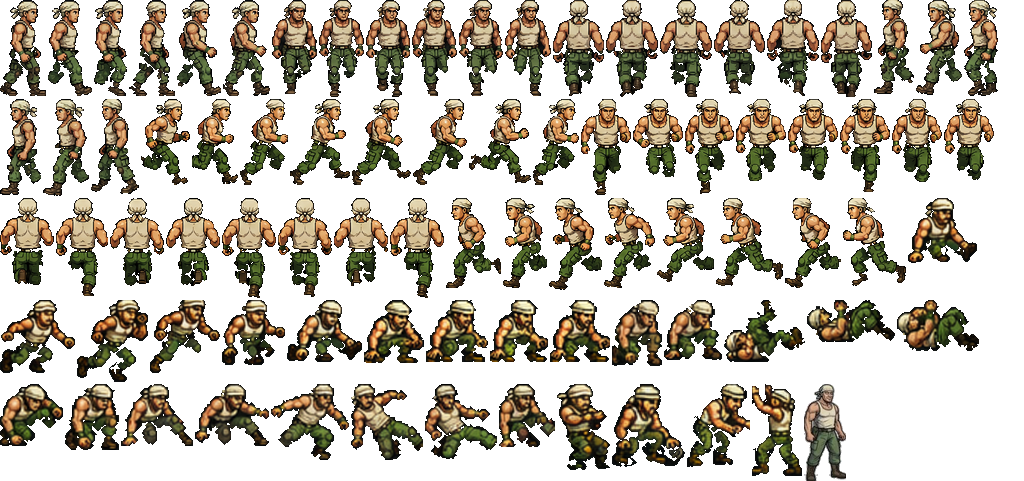
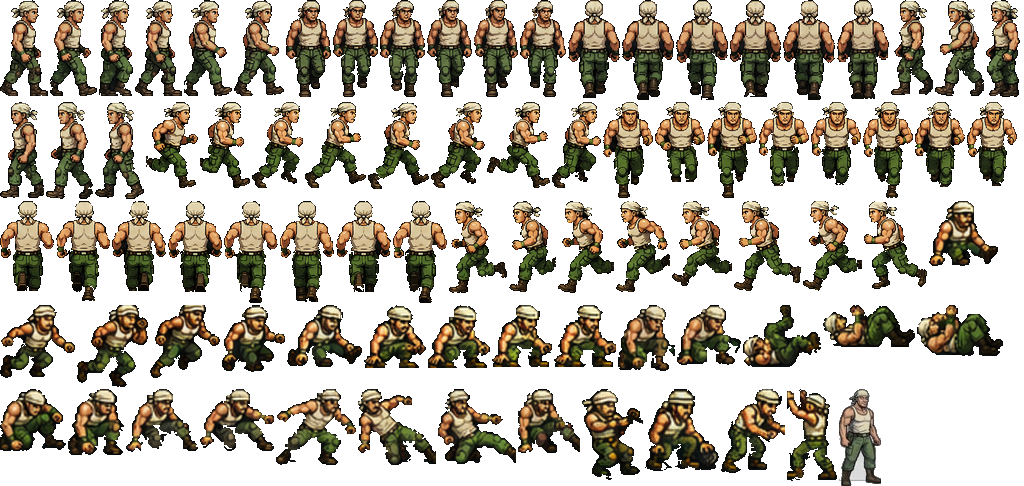
Arreglo: la pierna trasera del protagonista desaparecía; hoja de ruta por sesiones
- extract_sprites.py: fondo eliminado por relleno desde fuera que se detiene
  en el contorno negro; la pierna trasera (verde casi negro) ya no se borra.
- Atlas regenerado (mismos nombres). 12 pruebas en verde.
- TRASPASO §4d: sesiones 4 a 11 con objetivos y criterio de terminado.

Claude-Session: https://claude.ai/code/session_01UyYTufm2q1ErLdkRkaK18L

diff --git a/tools/extract_sprites.py b/tools/extract_sprites.py
@@ -51,12 +51,39 @@ def extract_row(f, box, n_expected, bgthr=26, minarea=150, light=False, merge_ga
         else:
             frames.append([s[0], s[1], s[2], s[3], [s[4]]])
     res = []
+    rgb = reg[..., :3]
+    if light:
+        bgc = np.median(rgb[:3].reshape(-1, 3), axis=0)
+    else:
+        border = np.concatenate([rgb[0], rgb[-1], rgb[:, 0], rgb[:, -1]])
+        bgc = np.median(border, axis=0)
+    H, W = rgb.shape[:2]
     for fx0, fx1, fy0, fy1, ids in frames:
-        sub = np.isin(lab[fy0:fy1, fx0:fx1], ids)
-        sub = nd.binary_fill_holes(sub)
-        sub = nd.binary_dilation(sub, iterations=1) & (mask_dark_bg(reg, 8, light)[fy0:fy1, fx0:fx1] | sub)
-        rgba = reg[fy0:fy1, fx0:fx1].copy()
-        rgba[..., 3] = np.where(sub, 255, 0)
+        # Caja con margen: el borde de la caja es fondo seguro.
+        P = 4
+        ax0, ax1, ay0, ay1 = max(0, fx0 - P), min(W, fx1 + P), max(0, fy0 - P), min(H, fy1 + P)
+        sub_rgb = rgb[ay0:ay1, ax0:ax1]
+        # Relleno del fondo DESDE FUERA: solo píxeles muy parecidos al fondo y
+        # conectados con el borde. Se para en el contorno negro del dibujo, así que
+        # las zonas oscuras interiores (pierna trasera en sombra) se conservan.
+        tol = 22 if light else 9
+        near = np.abs(sub_rgb - bgc).max(-1) <= tol
+        lab_bg, _ = nd.label(near)
+        edge = np.unique(np.concatenate([lab_bg[0], lab_bg[-1], lab_bg[:, 0], lab_bg[:, -1]]))
+        bgmask = np.isin(lab_bg, edge[edge > 0])
+        fg = ~bgmask
+        # Quita restos de otros fotogramas que entren en el margen: conserva lo que
+        # toca a los componentes detectados de este fotograma.
+        seed = np.zeros_like(fg)
+        seed[fy0 - ay0:fy1 - ay0, fx0 - ax0:fx1 - ax0] = np.isin(lab[fy0:fy1, fx0:fx1], ids)
+        lab_fg, _ = nd.label(fg, structure=np.ones((3, 3)))
+        keep = np.unique(lab_fg[seed & fg]); keep = keep[keep > 0]
+        fg = np.isin(lab_fg, keep)
+        fg = nd.binary_fill_holes(fg)
+        rgba = reg[ay0:ay1, ax0:ax1].copy()
+        rgba[..., 3] = np.where(fg, 255, 0)
+        ys, xs = np.nonzero(fg)
+        rgba = rgba[ys.min():ys.max() + 1, xs.min():xs.max() + 1]
         res.append(rgba.astype(np.uint8))
     print(f, 'frames found', len(res), [r.shape[:2] for r in res], file=sys.stderr)
     return res
@@ -108,9 +135,11 @@ packed = []
 for k, frs in sheets.items():
     for i, f in enumerate(frs):
         f = f.copy()
-        blk = (f[..., :3].astype(int).sum(-1) < 40) & (f[..., 3] > 0)
-        thick = nd.binary_dilation(nd.binary_opening(blk, iterations=3), iterations=4) & blk
-        f[thick, 3] = 0
+        # Borrones negros del original (objetos tapados): solo en estas hojas.
+        if k in ('reach', 'up', 'roll', 'pick'):
+            blk = (f[..., :3].astype(int).sum(-1) < 40) & (f[..., 3] > 0)
+            thick = nd.binary_dilation(nd.binary_opening(blk, iterations=3), iterations=4) & blk
+            f[thick, 3] = 0
         # keep largest component only
         lab, n = nd.label(f[..., 3] > 0, structure=np.ones((3, 3)))
         if n > 1:

diff --git a/docs/TRASPASO.md b/docs/TRASPASO.md
@@ -457,6 +457,7 @@ Todas las marcadas **[ACORDADO-USUARIO]** y **[ACORDADO-DELEGADO]** en §1 y §2
 5. **Texto incrustado** en `avion.jpg` y `paisaje.jpg` (ver §1.6).
 6. ~~**Vista lateral frente a cenital**~~ (resuelto: **vista cenital**, Javier lo decidió tras probar la lateral; ver §2.1). El clima ya está resuelto: varios biomas con selva, lluvia y oscuridad (ver §1.6).
 7. ~~**Contradicción con las instrucciones del proyecto "Juego"**~~ (resuelto: el repositorio es del juego de la isla).
+8. ~~**Al protagonista le desaparece una pierna en muchos movimientos**~~ (queja de Javier, 15/11/2026). **Corregido:** el script de recorte borraba como fondo la pierna trasera, que está pintada en verde casi negro. Ahora el fondo se elimina por relleno desde fuera, que se detiene en el contorno negro del dibujo, y los borrones negros solo se quitan en las hojas que los tienen. Atlas regenerado (1024 × 486, 90 fotogramas, mismos nombres). Si vuelve a verse algo raro en un sprite, revisarlo primero en `tools/extract_sprites.py`.
 
 ### 3.6 Preguntas abiertas para Javier
 
@@ -492,6 +493,147 @@ Principio general: **terminar cada sistema y dejarlo jugable antes de empezar el
 | **8. Fauna, noche y clima** | Jabalí, serpiente, depredador nocturno, tiburones, cazadores nocturnos, antorcha (da luz pero también te delata). Lluvia y tormenta, niebla, frío en la cumbre, oscuridad real | La noche es claramente más peligrosa. La antorcha ahuyenta al depredador. La lluvia y la oscuridad cambian cómo se juega (visibilidad, sigilo, agua, fuego). |
 | **9. Finales y secretos** | Radio, balsa, avión, notas, diario de objetivos, secreto de los cristales, pantalla final con estadísticas | Los 3 finales se pueden completar en una partida de prueba. El diario refleja las pistas encontradas. |
 | **10. Pulido** | Equilibrio (30–60 min por partida), HUD, audio, rendimiento a 60 fps, documento de funciones hechas / parciales / pendientes | Una partida completa sin bloqueos ni errores de consola. Documentación al día. |
+
+---
+
+## 4d. HOJA DE RUTA POR SESIONES (desde la sesión 4) [RECOMENDACIÓN]
+
+> **Esta sección manda sobre el plan anterior.** Reordena lo que falta de §4 en sesiones cerradas, teniendo en cuenta lo ya hecho en las sesiones 1–3. Reglas para todas las sesiones:
+> - **No parar ni pedir confirmación hasta cumplir la definición de terminado de la sesión.** Si algo se complica, hacer una versión sencilla que funcione y seguir.
+> - **Mantener el nivel visual** de la sesión 3 (referencia: `assets-src/referencias/objetivo-estilo-selva.png`). Todo lo nuevo (biomas, interfaces, enemigos) con la misma estética de pixel art con contorno. **Revisar capturas** antes de cerrar.
+> - Trabajar en la rama `claude/vista-cenital`. Commits pequeños. Al acabar: `npm run build` y `npm test` en verde, pruebas nuevas para lo nuevo, CHANGELOG y este documento al día, e informe honesto.
+> - Cuando una pregunta de §3.6 bloquee el trabajo, aplicar la recomendación del documento, dejarlo anotado y seguir.
+
+### Estado al empezar la sesión 4
+
+- **Hecho:**
+  - Fases 0 y 1b.
+  - Espacio jugable de §4c: playa y selva hechas a mano, saqueo, mochila, comer y beber, combate cuerpo a cuerpo, 3 guerreros con cono de visión, jabalí, cangrejos, sigilo en hierba alta, eliminación por la espalda, día y noche, lluvia con tormenta, HUD y sonido.
+  - Recorte de sprites corregido (pierna).
+- **Falta:**
+  - flujo de inicio;
+  - la isla completa y sus biomas;
+  - movilidad avanzada;
+  - fabricación, refugio y guardado;
+  - el resto de fauna, enemigos y clima;
+  - finales y secretos;
+  - pulido.
+
+### Sesión 4: Flujo de inicio y atributos (Fase 2)
+
+- **Título** con `avion.jpg`: Nueva partida, Continuar (desactivado hasta que haya guardado) y Controles.
+- **Creación de personaje** con `paisaje.jpg` de fondo:
+  - **10 puntos** entre Fuerza, Agilidad, Inteligencia y Sigilo/Percepción, con una descripción de qué hace cada uno;
+  - colores de **pelo/pañuelo, piel, camiseta y pantalón** con recoloreado (§2.6) y **vista previa animada** del personaje girando por las 4 direcciones.
+- **Intro breve** (2–3 pantallas de texto) y **aterrizaje cenital**:
+  - mapa de la isla desde arriba con "SIN COMBUSTIBLE" parpadeando, altímetro, giro con A/D y Espacio para aterrizar;
+  - resultado según la zona (§2.4);
+  - aparecer en el mundo en el sitio correspondiente.
+  - Mientras la isla completa no exista (sesión 5), se aterriza dentro del mapa actual con las zonas que haya, y las demás muestran "zona sin explorar".
+- **Los atributos tienen efecto real:**
+  - vida y daño (Fuerza);
+  - velocidad, salto y aguante de escalada (Agilidad);
+  - pistas en el inventario y probabilidad de enfermar (Inteligencia, preparada para la fabricación);
+  - ruido y detección (Sigilo).
+  - Pantalla de personaje (tecla P) con los valores.
+- **Terminado cuando:** se juega el recorrido título → creación → intro → aterrizaje → juego. Dos personajes con atributos muy distintos se notan al jugar (prueba automática que mida salto, vida y detección). La vista previa refleja los colores elegidos.
+
+### Sesión 5: La isla completa, exterior (Fase 3, parte 1)
+
+- Mapa grande hecho a mano o semiprocedural de unos **200 × 160 tiles** con los biomas de §2.4:
+  - playa del naufragio;
+  - selva;
+  - **manglar con niebla**;
+  - **poblado de la tribu**;
+  - **monte con terrazas y cumbre nevada**;
+  - **campamento militar abandonado** (inspirado en `paisaje.jpg`);
+  - **acantilados del viento**;
+  - **bahía este** con embarcadero y helipuerto.
+  - Integrar dentro del mapa grande el trozo ya hecho (playa y selva).
+- Cada bioma con **tiles, props y ambiente propios** al nivel de la sesión 3: nieve y ventisca arriba, barro y niebla en el manglar, metal oxidado y tiendas en el campamento.
+- **Mapa del juego (M)** con niebla de guerra por zonas descubiertas y marcador del jugador. **El mapa del aterrizaje sale de este mismo mapa.**
+- Rendimiento: dibujar solo lo visible y prerenderizar por trozos (chunks).
+- **Terminado cuando:** se recorre la isla entera sin cargas ni errores. Cada bioma tiene una captura revisada contra la referencia. El mapa M se va descubriendo. Se mantienen los 60 fps.
+
+### Sesión 6: Interiores y subsuelo (Fase 3, parte 2)
+
+- **Cuevas del monte** (mapa aparte, oscuridad total que exige antorcha): ruta alternativa a la escalada, guarida del depredador, bidón, tarjeta de acceso, esqueleto con nota.
+- **Búnker** bajo el campamento: puerta que se abre con tarjeta y salas con radio rota, batería, cables, bidón y notas.
+- **Interiores de cabañas** del poblado, con la choza del jefe y su bidón.
+- **Transiciones** de entrada y salida al estilo Pokémon, con fundido.
+- **Terminado cuando:** se puede entrar y salir de cueva, búnker y cabañas. La cueva conecta dos alturas del monte. La tarjeta abre el búnker. Hay pruebas automáticas de ello.
+
+### Sesión 7: Movilidad avanzada y persecución (Fase 4)
+
+- Escalada entre alturas con aguante según la Agilidad, ya en todo el monte.
+- Lianas y escaleras.
+- **Garfio** a puntos de anclaje.
+- Saltos de huecos según la Agilidad.
+- **Nado** con aguante y **tiburones** en aguas profundas.
+- Daño por caída.
+- **Suelo que se derrumba**.
+- **Ráfagas de viento** en los acantilados.
+- **Voltereta** con invulnerabilidad breve.
+- **Persecución jugable en los acantilados:** la tribu te persigue por caminos al borde del mar.
+- **Terminado cuando:**
+  - con Agilidad 0 se llega a la cumbre por la cueva y con Agilidad alta escalando;
+  - el garfio funciona;
+  - caer al mar con tiburones es peligroso;
+  - la persecución se puede jugar y superar.
+
+### Sesión 8: Supervivencia completa, fabricación y guardado (Fases 5 y 6)
+
+- **Inventario con peso** (capacidad según la Fuerza) y cofres con transferencia.
+- Agua dulce, salada y sucia, y enfermedad.
+- **Hoguera** (cocinar y hervir agua).
+- **Cama o refugio** (dormir hasta la mañana, recuperar energía y fijar el punto de reaparición; riesgo de emboscada si no hay fuego).
+- **Fabricación** con las recetas de §2.5 y **mezcla con pistas según la Inteligencia**.
+- **Guardado** automático (al dormir y periódico) en localStorage, y Continuar en el título.
+- **Muerte con mochila caída** (§2.4), salvo que Javier haya dicho otra cosa (§3.6, pregunta 6).
+- **Terminado cuando:**
+  - se sobrevive una noche entera gestionando recursos;
+  - las recetas consumen materiales;
+  - mezclar bien descubre la receta y mezclar mal penaliza;
+  - guardar, recargar y continuar conserva todo.
+  - Todo ello con pruebas automáticas.
+
+### Sesión 9: Fauna, enemigos y clima completos (Fases 7 y 8)
+
+- **Arco y flechas**, lanzas arrojadizas de la tribu y **ruido con radio visible**.
+- **Pathfinding** para que los enemigos rodeen obstáculos.
+- **Vigilantes del campamento militar**.
+- **Serpiente** escondida en la hierba.
+- **Depredador nocturno** (la antorcha lo ahuyenta).
+- **Cazadores nocturnos**.
+- **Niebla**, **frío y ventisca en la cumbre** (hace falta abrigo o fuego) y **la lluvia apaga la antorcha**.
+- **Terminado cuando:**
+  - la noche es claramente más peligrosa;
+  - el depredador respeta la antorcha;
+  - el frío obliga a prepararse para subir;
+  - los enemigos no se atascan;
+  - se puede saquear el poblado entero en sigilo.
+
+### Sesión 10: Finales, secretos e historia (Fase 9)
+
+- **Tres huidas completas** (§2.5):
+  - **radio** reparada y usada en la antena de la cumbre, con espera hasta el helicóptero mientras la tribu te caza;
+  - **balsa** en el embarcadero;
+  - **avión** con 3 bidones y kit de reparación, solo si aterrizaste en arena.
+- **6 notas** de historia, **diario (L)** con objetivos y pistas, **secreto de los cristales** (la tribu deja de ser hostil) y el ídolo de jade con uso.
+- **Pantalla final** con estadísticas.
+- **Terminado cuando:** las tres huidas se pueden completar en partidas de prueba (hay pruebas automáticas con atajos de depuración) y el diario refleja lo descubierto.
+
+### Sesión 11: Pulido y entrega (Fase 10)
+
+- Equilibrio para que una partida dure **30–60 minutos**.
+- Ajuste de dificultad.
+- Música y ambiente por bioma (sintetizados).
+- Opciones de volumen y controles.
+- Probar en Chrome, Edge y Firefox.
+- Rendimiento.
+- Documento de funciones **hechas / parciales / pendientes**.
+- **Fusionar la rama en `main` mediante un pull request** y publicar `dist/isla.html` en una release de GitHub (o en GitHub Pages si Javier quiere).
+- **Terminado cuando:** una partida completa de principio a fin no tiene bloqueos ni errores, la documentación está al día y el juego se puede descargar con un clic.
 
 ---
 

diff --git a/CLAUDE.md b/CLAUDE.md
@@ -11,7 +11,7 @@ Este repositorio es el **juego de supervivencia en una isla** de Javier: aterriz
 - Toda la interfaz y la documentación, en **español**.
 - **La estética importa:** Javier rechazó el aspecto de la sesión 2 (`assets-src/referencias/rechazado-sesion2.png`). El objetivo visual es `assets-src/referencias/objetivo-estilo-selva.png`: cómic cel-shaded con contorno, selva frondosa, piedra con musgo, coherente con el pixel art de los sprites. Revisa siempre una captura comparándola con esa referencia.
 - Entregable: `dist/isla.html`, **un único archivo** que funciona abierto con doble clic (file://), sin instalar nada.
-- Trabaja **por fases** (§4 del traspaso). **Las fases 1b (§4b) y §4c (estética + primer espacio jugable) están hechas. La siguiente es la Fase 2 (flujo de inicio), salvo que Javier diga otra cosa.** El juego es CENITAL, con movimiento en todas las direcciones, como en Pokémon: la vista lateral está descartada. Termina y prueba cada sistema antes de empezar otro.
+- Trabaja **por fases** (§4 del traspaso). **Las sesiones 1–3 están hechas. La hoja de ruta está en §4d del traspaso (sesiones 4 a 11): haz la sesión que Javier indique y no pares hasta cumplir su definición de terminado.** El juego es CENITAL, con movimiento en todas las direcciones, como en Pokémon: la vista lateral está descartada. Termina y prueba cada sistema antes de empezar otro.
 - Trabaja en una rama, no en la principal. Haz commits pequeños con mensajes claros.
 - Antes de dar una fase por terminada:
   - `npm run build` sin errores;

diff --git a/docs/CHANGELOG.md b/docs/CHANGELOG.md
@@ -1,5 +1,12 @@
 # Historial de cambios
 
+## Arreglo entre sesiones: pierna del protagonista (15/11/2026)
+
+- Javier: "en muchos movimientos se le desaparece una pierna". El script de recorte (`tools/extract_sprites.py`) confundía con el fondo la pierna trasera, pintada en verde casi negro.
+- Ahora el fondo se quita con un relleno desde fuera de cada fotograma, que se detiene en el contorno negro del dibujo. Los borrones negros solo se eliminan en las hojas que los tienen (recoger, alcanzar, brazos arriba, rodar).
+- Atlas regenerado (1024 × 486, 90 fotogramas, mismos nombres y número de fotogramas). Las 12 pruebas siguen en verde.
+- Hoja de ruta por sesiones añadida en TRASPASO §4d.
+
 ## Sesión 3 — §4c: estética de verdad y primer espacio jugable (15/11/2026)
 
 Javier rechazó el aspecto de la sesión 2. El objetivo visual es `assets-src/referencias/objetivo-estilo-selva.png`.
